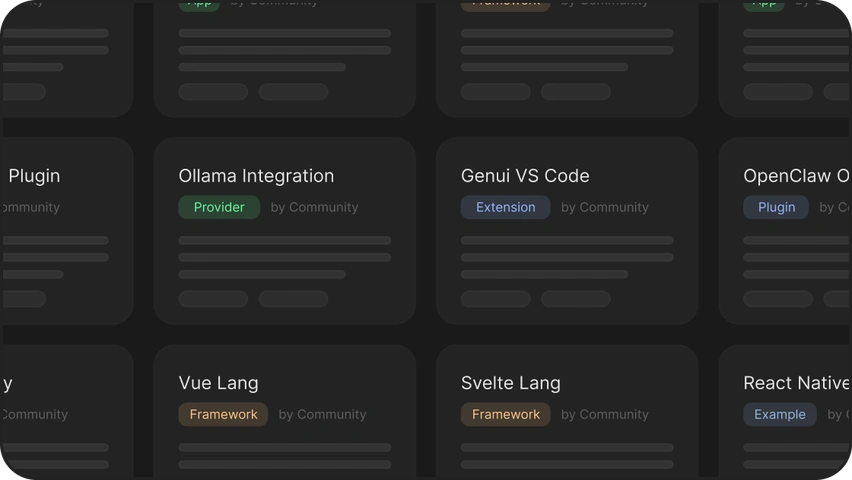
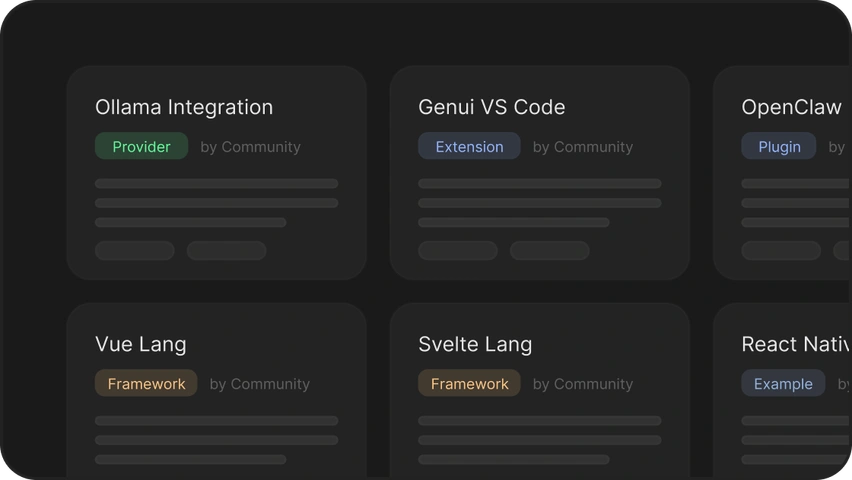
Community art, Lab copy, a wider hover target and a lighter shadow
- Community projects picks up the replaced export, so both themes now show the
  real project grid rather than the drawn stand-in.
- Lab descriptions move to the Demos menu's sentence style and run long enough
  to wrap onto two lines, matching it. Trimmed once after seeing them render
  at three.
- The hover fill bleeds 6px past the artwork instead of 4px. The panel's own
  padding and gap absorb the difference (12/8 -> 10/4, track 292 -> 296), so
  the panel is still exactly 1216px and nothing on screen moves — a bigger
  target simply trades panel space for it. Card radius follows to 18px to stay
  concentric with the 12px artwork.
- Shadow steps back from 2xl to xl. Still clearly off the page, less heavy.

diff --git a/docs/components/site-primary-nav.module.css b/docs/components/site-primary-nav.module.css
@@ -81,8 +81,9 @@
   background: var(--openui-foreground);
   /* A wide, soft cast so the panel reads as floating clear of the page rather
      than pinned to it — shadow-l is only an 8px blur and disappears against
-     the hero. */
-  box-shadow: var(--openui-shadow-2xl);
+     the hero. One step down from 2xl: still clearly separates the panel from
+     the page, without the heavier cast reading as too much. */
+  box-shadow: var(--openui-shadow-xl);
   opacity: 0;
   pointer-events: none;
   transition:
@@ -130,11 +131,12 @@
 /* Width is written inline by the nav: the natural size at full width, or the
    viewport minus a margin once that no longer fits. Columns then share whatever
    that width is, so the cards shrink together rather than the panel clipping.
-   Each card carries 4px of its own padding so its hover fill can bleed 4px past
+   Each card carries 6px of its own padding so its hover fill can bleed 6px past
    the artwork without any layout shift; the panel's padding and gap are reduced
-   by that same 4px per edge, so at full width the rendered spacing matches the
-   design (16px panel inset, 16px between artwork edges):
-     track  284 + 4*2 = 292      panel  12*2 + 292*4 + 8*3 = 1216
+   by that same 6px per edge, so at full width the rendered spacing matches the
+   design (16px panel inset, 16px between artwork edges) regardless of the
+   card's own padding — a bigger bleed only trades panel/gap space for it:
+     track  284 + 6*2 = 296      panel  10*2 + 296*4 + 4*3 = 1216
    Only the artwork scales — it holds its aspect ratio — while the label and
    description keep their size and re-wrap into the narrower column. */
 .viewportContent {
@@ -144,8 +146,8 @@
   display: grid;
   grid-auto-flow: column;
   grid-auto-columns: minmax(0, 1fr);
-  gap: 0.5rem;
-  padding: 0.75rem;
+  gap: 4px;
+  padding: 10px;
   opacity: 0;
   transition: opacity 0.16s ease;
 }
@@ -170,11 +172,11 @@
   position: relative;
   display: flex;
   flex-direction: column;
-  /* Bleeds the hover fill 4px past the artwork. Compensated for in the panel's
-     padding/gap above, so this adds no visible spacing. */
-  padding: 4px;
-  /* Concentric with the 12px artwork radius inside it (12 + 4px padding). */
-  border-radius: 16px;
+  /* Bleeds the hover fill 6px past the artwork. Compensated for in the panel's
+     padding/gap below, so this adds no visible spacing. */
+  padding: 6px;
+  /* Concentric with the 12px artwork radius inside it (12 + 6px padding). */
+  border-radius: 18px;
   color: var(--openui-text-neutral-primary);
   text-decoration: none;
   transition: background-color 0.15s ease;

diff --git a/docs/components/site-primary-nav.tsx b/docs/components/site-primary-nav.tsx
@@ -80,7 +80,7 @@ export const PRIMARY_SITE_NAV_ITEMS: NavItem[] = [
     children: [
       {
         title: "OpenClaw OS",
-        description: "Workspace for your OpenClaw agents.",
+        description: "A workspace for running and managing your OpenClaw agents.",
         href: "/openclaw-os",
         preview: {
           light: "/nav/openclaw-light.webp",
@@ -89,7 +89,7 @@ export const PRIMARY_SITE_NAV_ITEMS: NavItem[] = [
       },
       {
         title: "Community projects",
-        description: "Tools, packages, plugins, and examples",
+        description: "Tools, packages, plugins, and examples built by the community.",
         href: "/lab",
         preview: {
           light: "/nav/community-light.webp",
@@ -109,9 +109,9 @@ export function isNavDropdown(item: NavItem): item is NavDropdown {
 
 /* Panel geometry, mirrored from .viewportContent in the stylesheet. Kept in
    sync by hand because the natural width has to be known before layout. */
-const CARD_TRACK = 292;
-const PANEL_GAP = 8;
-const PANEL_PADDING = 12;
+const CARD_TRACK = 296;
+const PANEL_GAP = 4;
+const PANEL_PADDING = 10;
 /* Smallest gap left between the panel and either edge of the window. */
 const VIEWPORT_MARGIN = 16;
 /* How long the pointer may be outside the nav before the menu closes. Long
